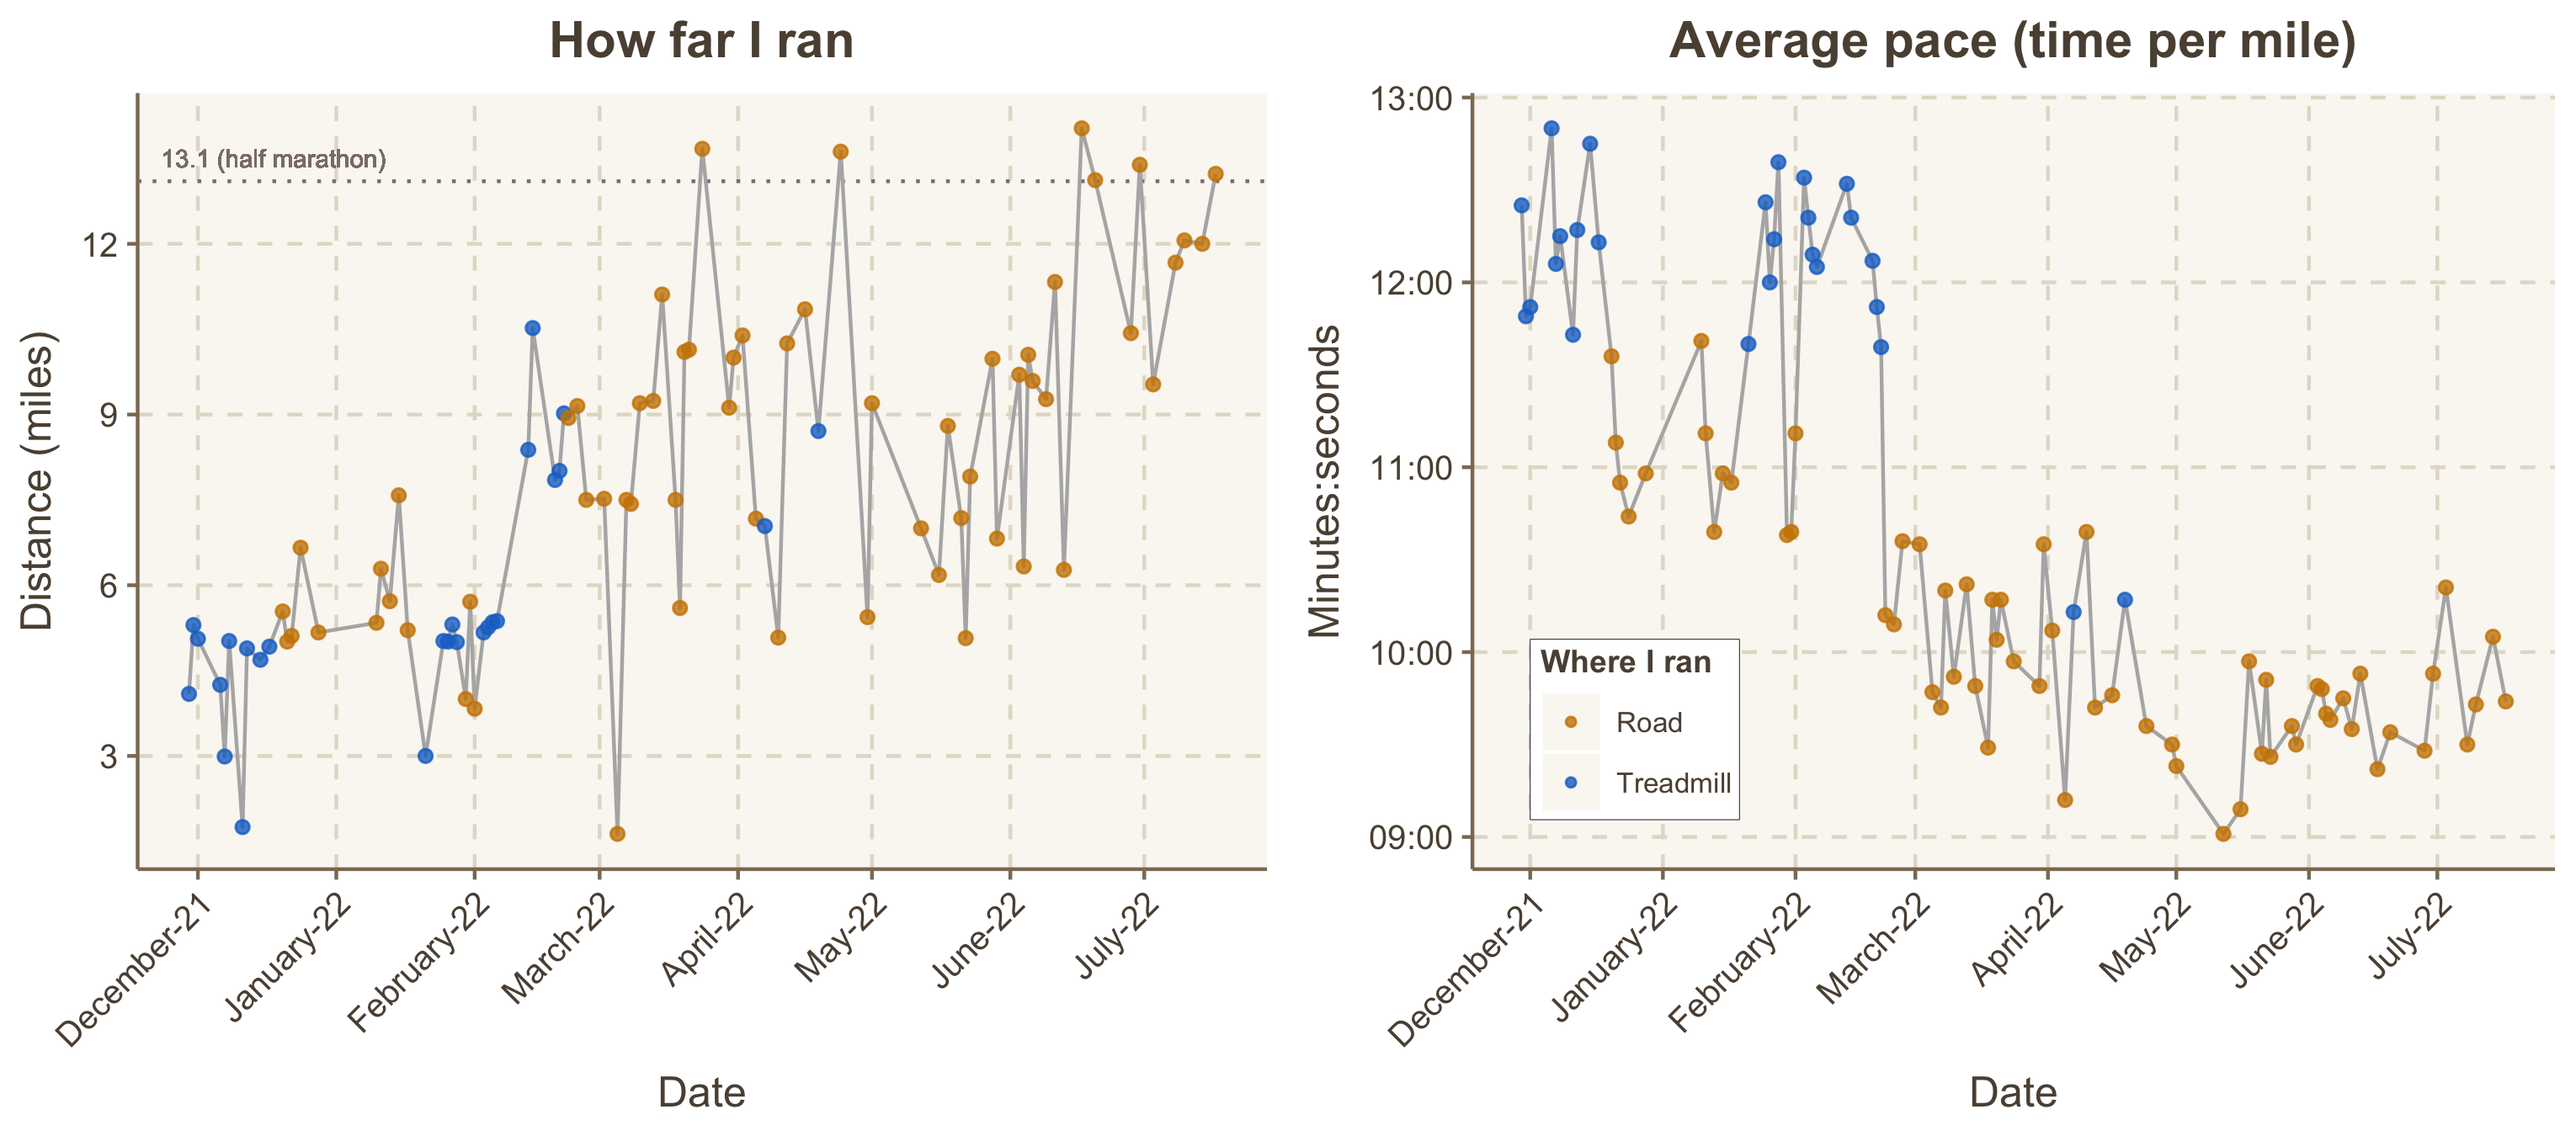
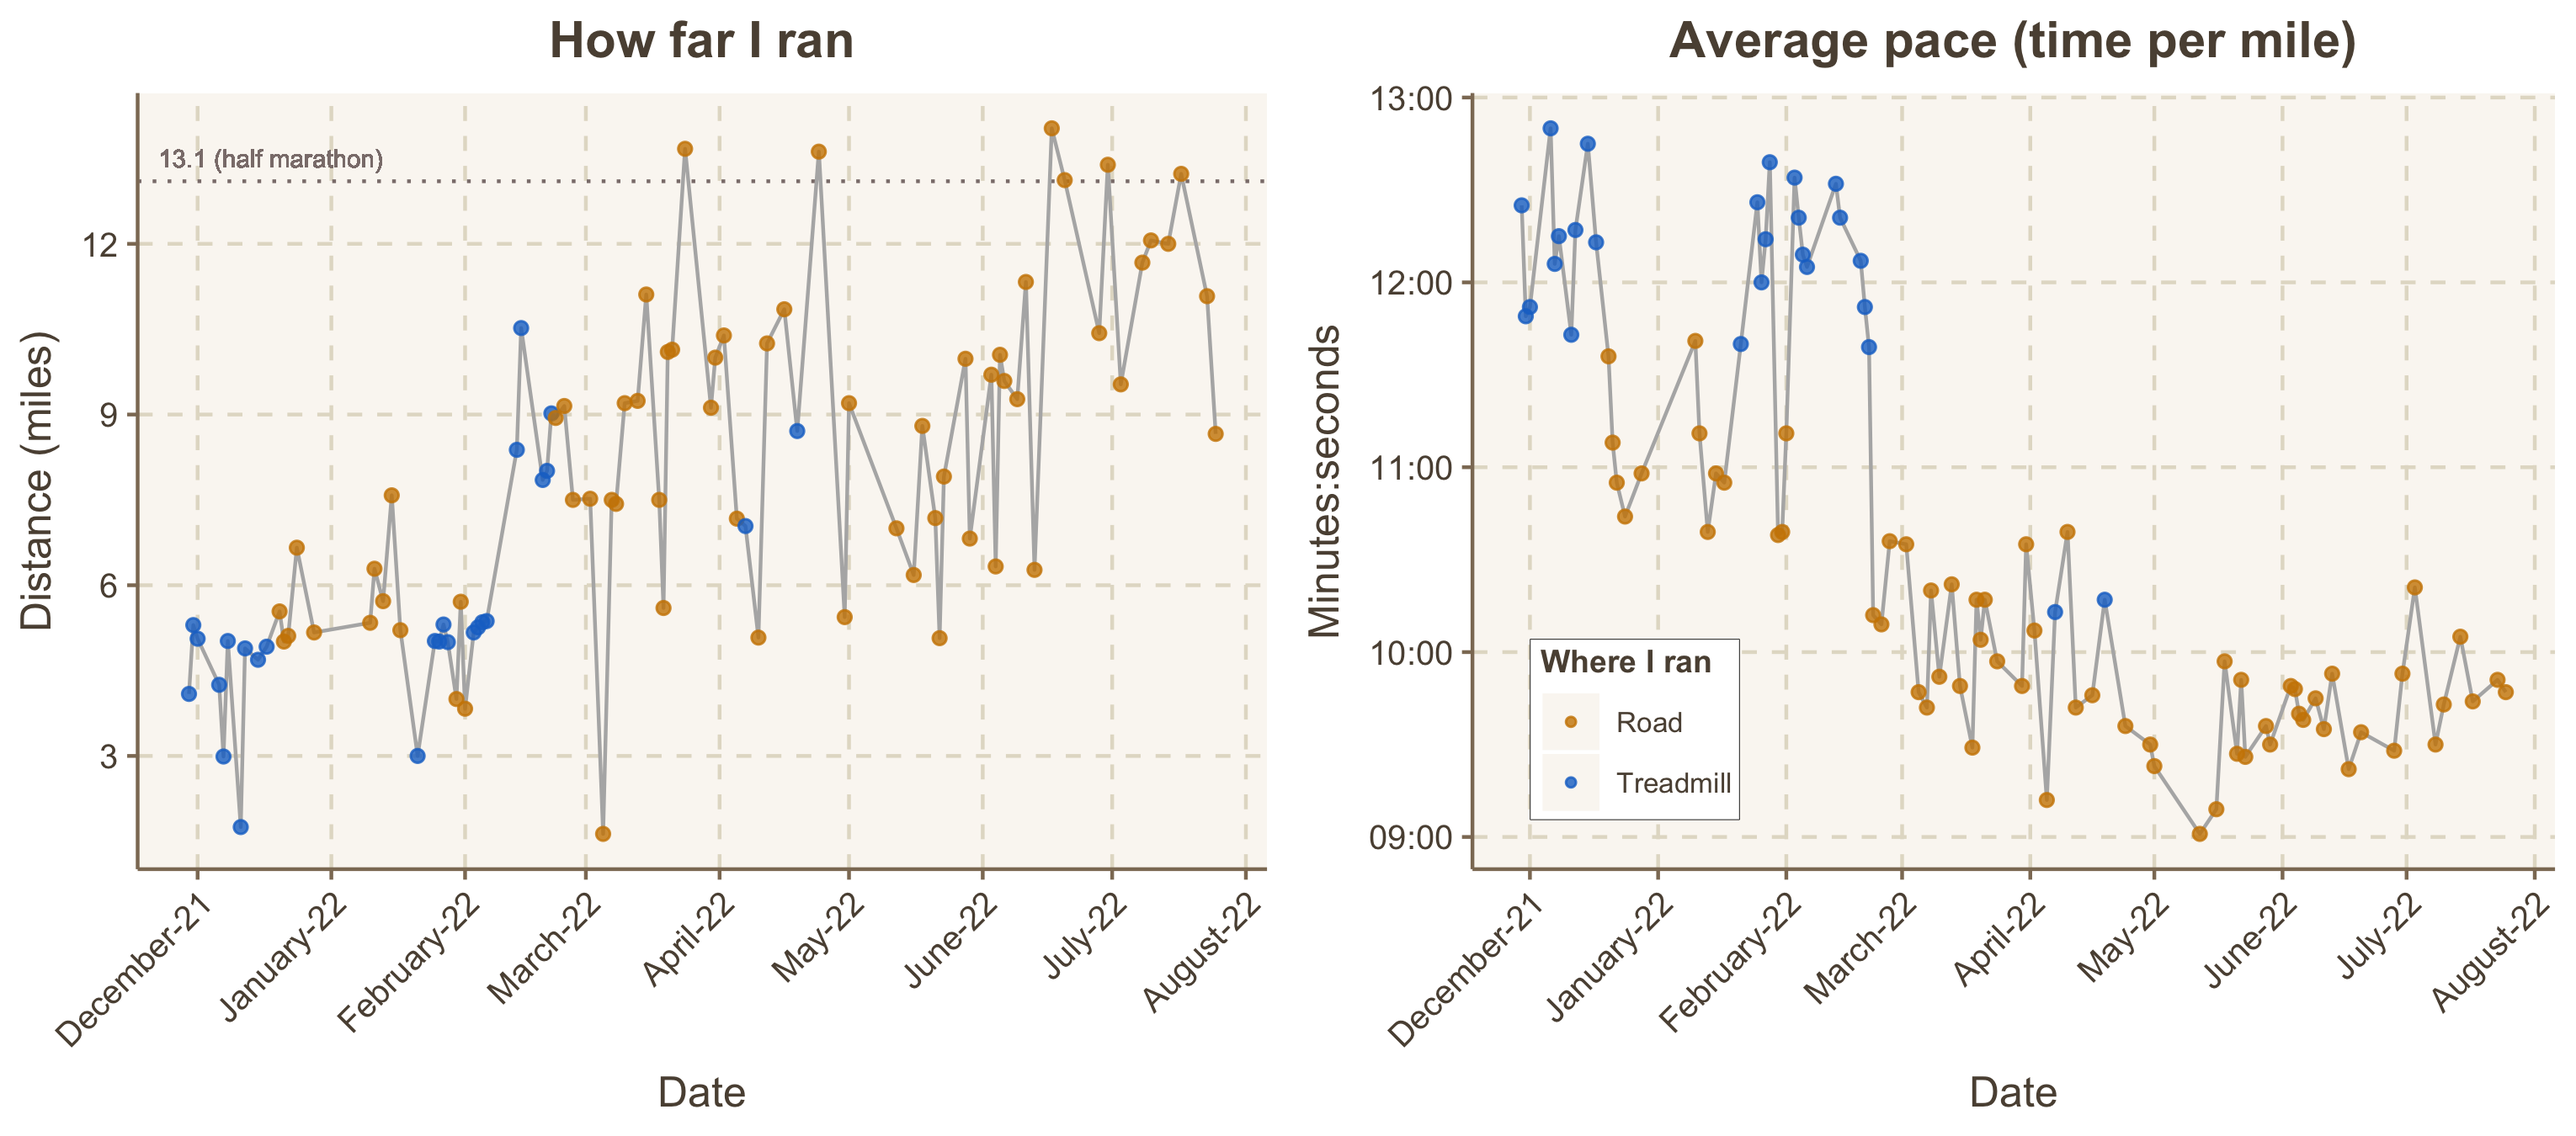
7/23/22 and 7/25/22

diff --git a/README.md b/README.md
@@ -25,7 +25,7 @@ ggarrange(p1, p2, nrow=1)
 sum(runningData$Miles)
 ```
 
-    ## [1] 666.44
+    ## [1] 686.18
 
 Average distance during the last 10 runs:
 
@@ -33,4 +33,4 @@ Average distance during the last 10 runs:
 mean(tail(runningData$Miles, 10))
 ```
 
-    ## [1] 11.573
+    ## [1] 11.517
